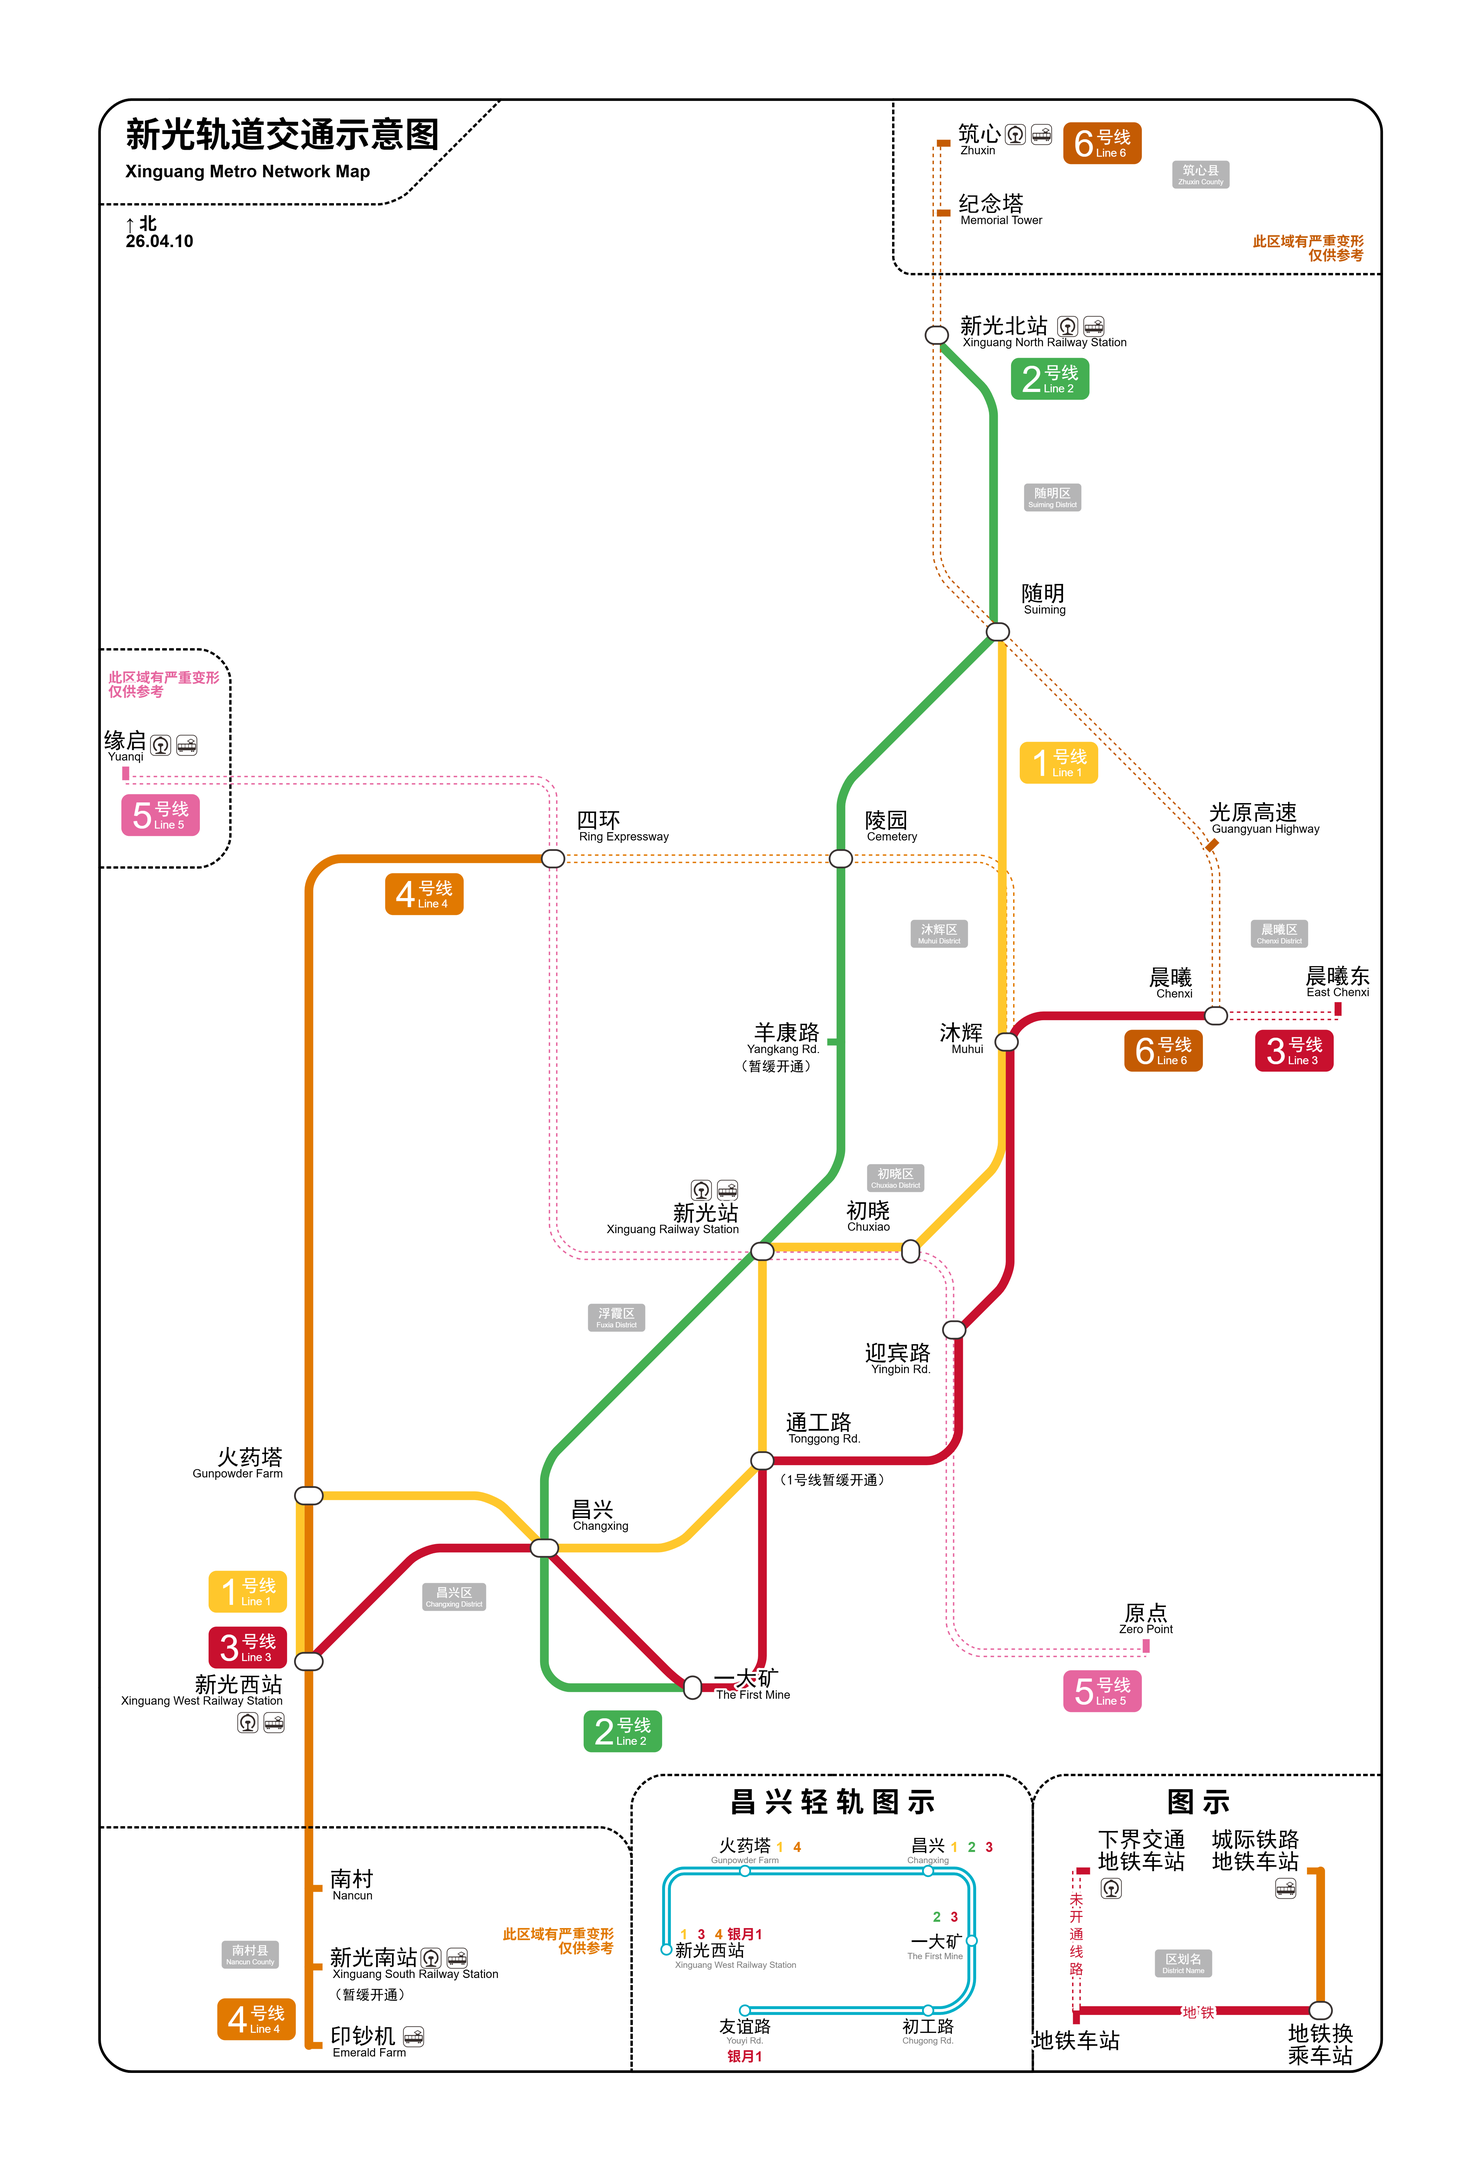
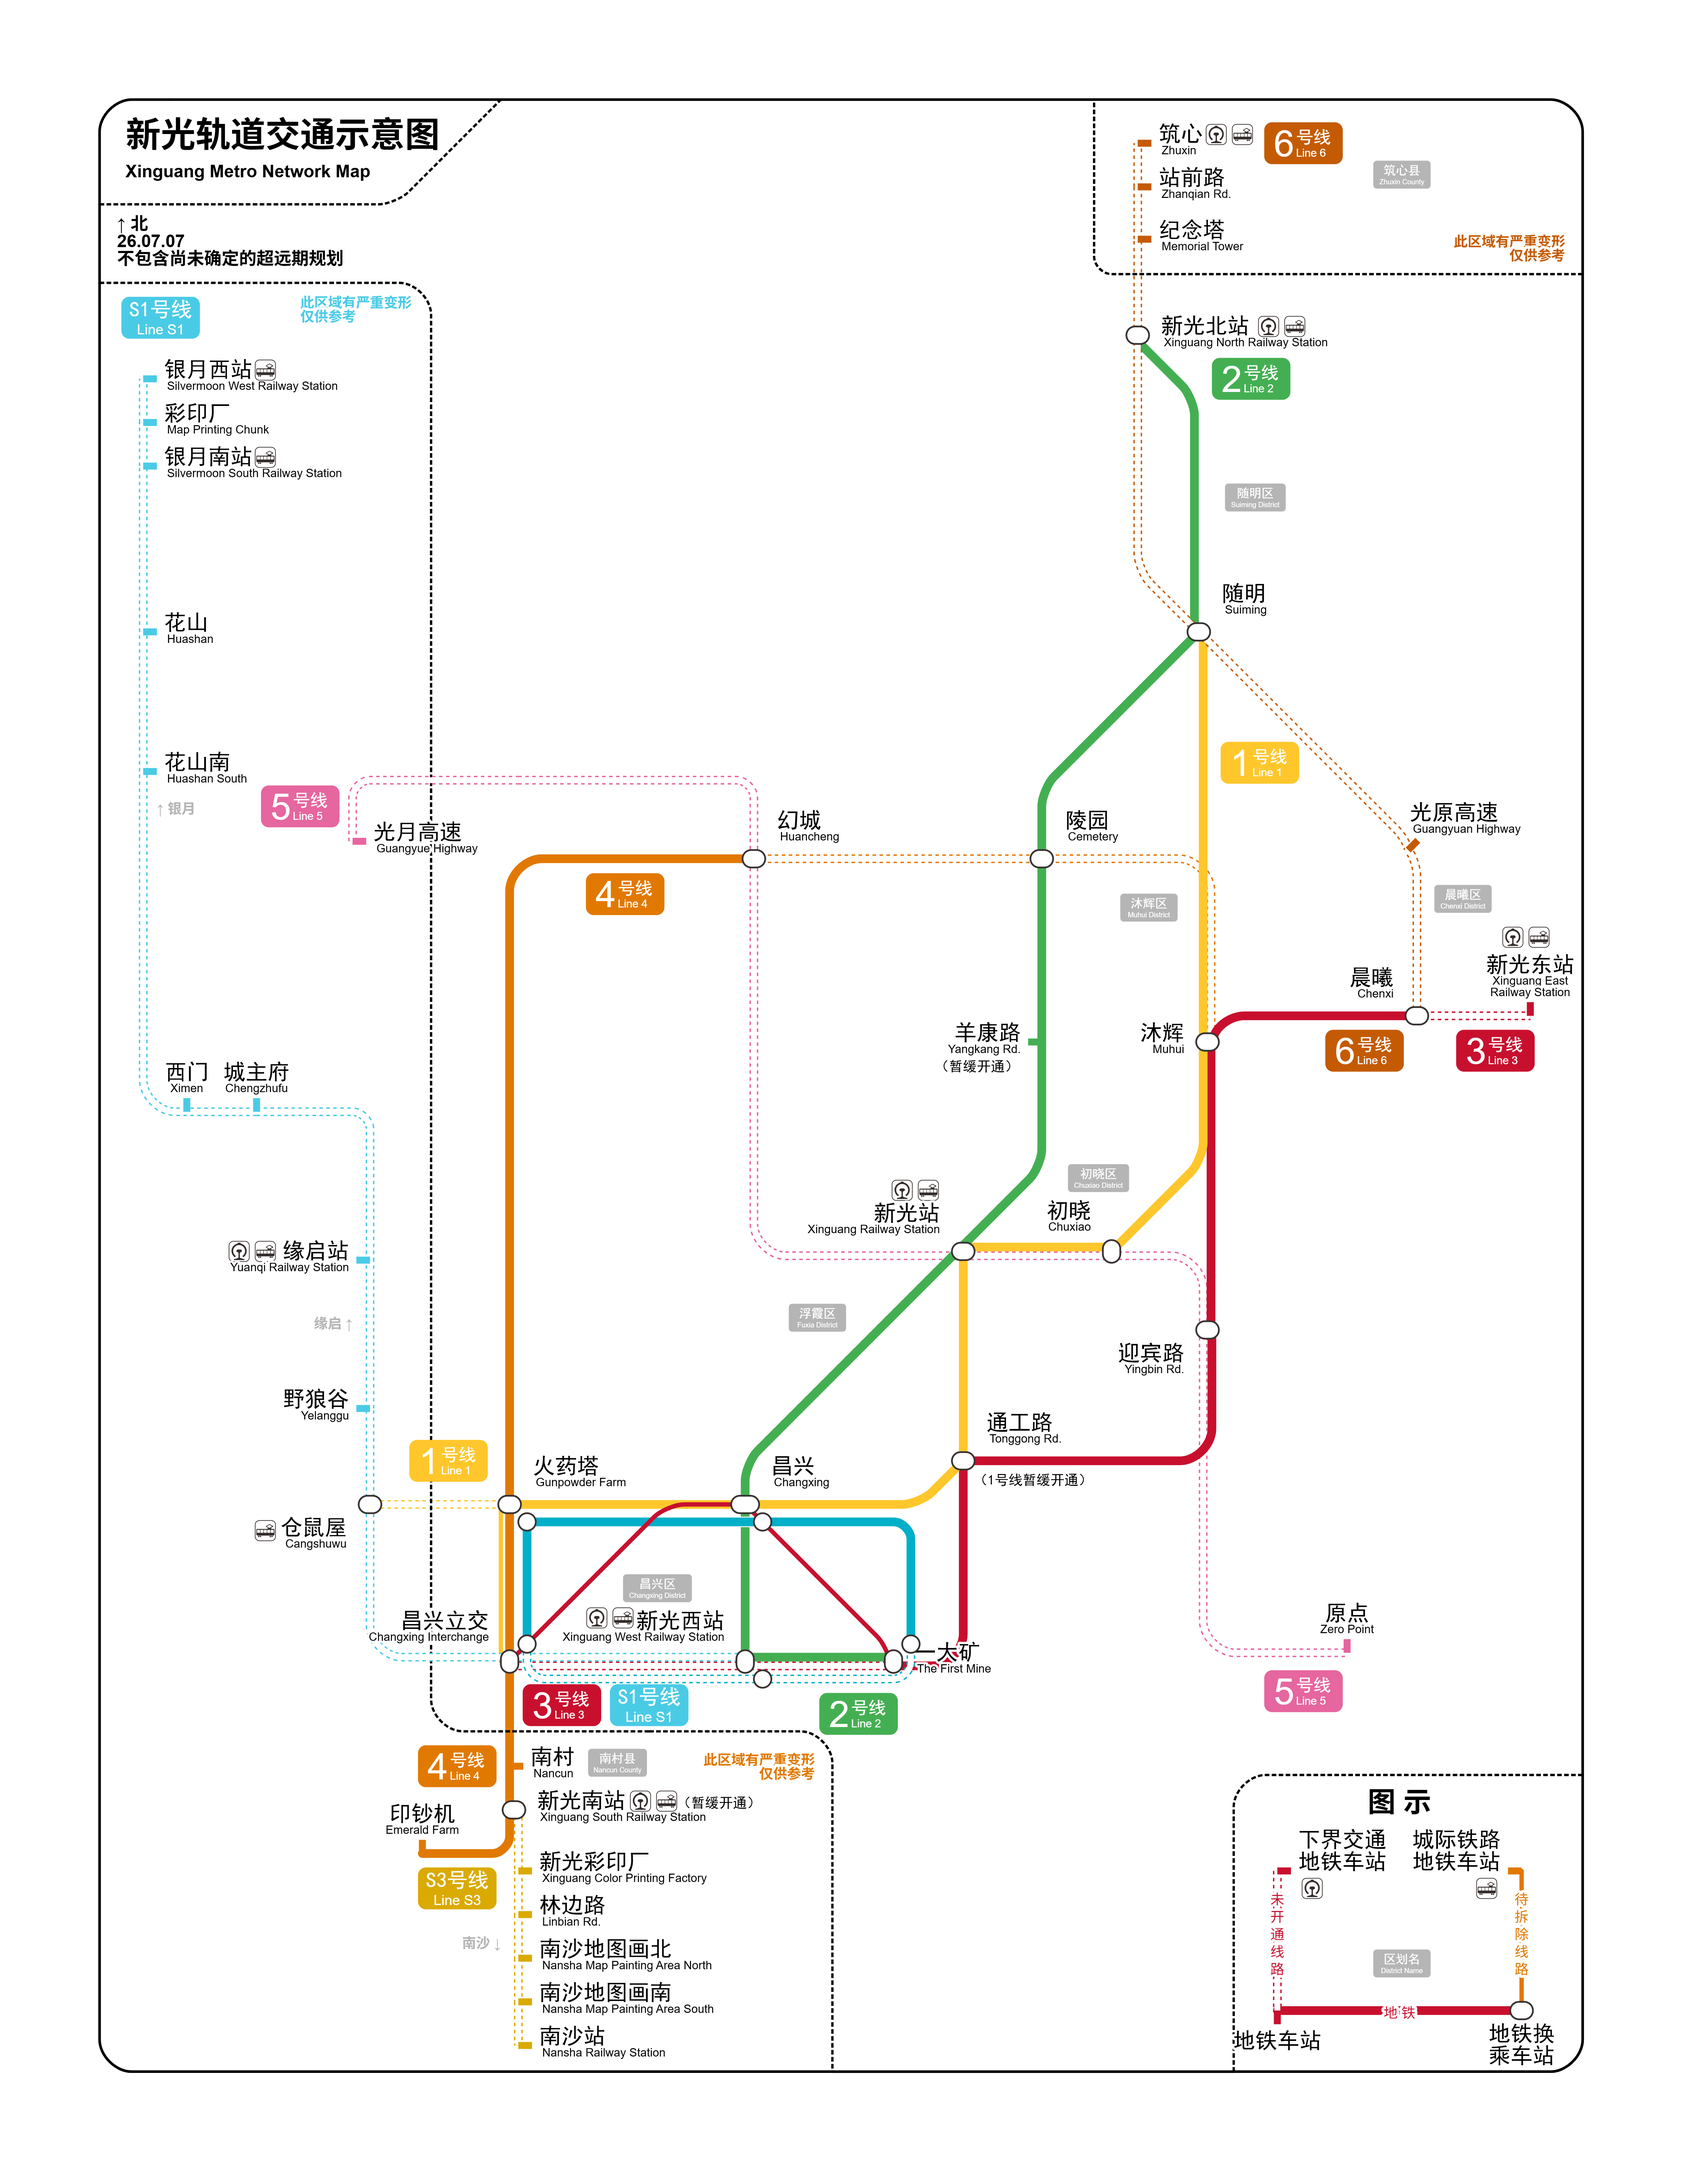
[更新] 铁路规划

diff --git a/docs/servers/s3/areas/xinguang/railway.md b/docs/servers/s3/areas/xinguang/railway.md
@@ -14,11 +14,11 @@ authors: [量筒]
 
 新光地铁整体呈现出高度的南北走向趋势，这是因为新光是一座多岛屿的城市，整体成「J」字形分布，因此新光地铁也显现出这一特点。
 
-截至 2026 年 2 月 3 日，新光地铁已经成为一条拥有 5 条线路，19 个站点，覆盖几乎新光全域的庞大地铁系统（不计月矿线和光原线）。
+截至 2026 年 7 月 7 日，新光地铁已经成为一条拥有 5 条线路，19 个站点，覆盖几乎新光全域的庞大地铁系统（不计城际铁路）。
 
 ## 新光轨道交通示意图
 
-![新光地铁规划图 26/02/03](/servers/s3/areas/xinguang/xinguang_metro.png)
+![新光地铁规划图 26/07/07](/servers/s3/areas/xinguang/xinguang_metro.png)
 
 ## 线路信息
 
@@ -26,13 +26,15 @@ authors: [量筒]
 
 | 线路 | 走向 | 主色 | 长度（米） | 规划站点数 | 已开通站点数 | 简介 |
 | --- | --- | --- | --- | --- | --- | --- |
-| 1 号线 | 新光西站 - 随明 | 黄色 | 987 | 8 | 7 | 城区骨干线路 |
-| 2 号线 | 一大矿 - 北港 | 黄绿色 | 1411 | 7 | 6 | 城区线路 |
-| 3 号线 | 新光西站 - 晨曦 | 红色 | 1023 | 8 | 7 | 城区线路 |
+| 1 号线 | 仓鼠屋 - 随明 | 黄色 | 987 | 8 | 6 | 城区骨干线路 |
+| 2 号线 | 一大矿 - 新光北站 | 黄绿色 | 1411 | 8 | 6 | 城区线路 |
+| 3 号线 | 昌兴立交 - 新光东站 | 红色 | 1023 | 8 | 5 | 城区线路 |
 | 4 号线 | 印钞厂 - 沐辉（陵园） | 橙色 | 1324 | 8 | 5 | 郊区快线 |
 | 5 号线 | 缘启 - 原点 | 粉色 | 0 | 6 | 0 | 缘启快线 |
-| 6 号线 | 晨曦 - 筑心 | 棕色 | 0 | 6 | 0 | 郊区快线 |
-| 昌兴轻轨 | 新光西站 - 友谊路 | 青色 | 566 | 6 | 6 | 村民运输线路（客货共用） |
+| 6 号线 | 晨曦 - 筑心 | 棕色 | 0 | 7 | 0 | 郊区快线 |
+| 7 号线 | 环线 | 青色 | 566 | 5 | 4 | 村民运输线路（客货共用） |
+| S1 号线 | 新光西站 - 银月西站 | 浅蓝色 | 0 | 12 | 2 | 缘启跨城快线 |
+| S3 号线 | 新光南站 - 南沙站 | 黄色 | 0 | 6 | 0 | 南沙跨城快线 |
 
 ### 站点间距
 
@@ -133,19 +135,21 @@ authors: [量筒]
 
 ## 待建设站点
 
-未来，新光轨道交通将新设 8 个站点，并将 11 个站点设为换乘站点。
+未来，新光轨道交通将新设 16 个站点，重建 4 个站点，并将 11 个站点设为换乘站点。
 
 | 站点 | 通过线路 | 类别 |
 | --- | --- | --- |
+| 新光南站 | 4 号线、S3 号线 | 新设站 |
+| 新光西站 | 2 号线、3 号线、7 号线、S1 号线 | 重建站 |
 | 通工路 | 1 号线 | 换乘站 |
+| 仓鼠屋 | 1 号线、S1 号线 | 换乘站 |
 | 羊康路 | 2 号线 | 新设站 |
-| 晨曦东 | 3 号线 | 新设站 |
-| 新光南站 | 4 号线 | 新设站 |
+| 新光东站 | 3 号线 | 新设站 |
+| 昌兴立交 | 3 号线、4 号线、S1 号线 | 重建站 |
 | 陵园 | 4 号线 | 换乘站 |
 | 沐辉 | 4 号线 | 换乘站 |
-| 缘启 | 5 号线 | 新设站 |
-| 四环 | 5 号线 | 换乘站 |
-| 陵园 | 5 号线 | 换乘站 |
+| 光月高速 | 5 号线 | 新设站 |
+| 幻城 | 5 号线 | 换乘站 |
 | 新光站 | 5 号线 | 换乘站 |
 | 初晓 | 5 号线 | 换乘站 |
 | 迎宾路 | 5 号线 | 换乘站 |
@@ -155,4 +159,14 @@ authors: [量筒]
 | 随明 | 6 号线 | 换乘站 |
 | 新光北站 | 6 号线 | 换乘站 |
 | 纪念塔 | 6 号线 | 新设站 |
+| 站前路 | 6 号线 | 新设站 |
 | 筑心 | 6 号线 | 新设站 |
+| 野狼谷 | S1 号线 | 新设站 |
+| 缘启站 | S1 号线 | 新设站 |
+| 城主府 | S1 号线 | 新设站 |
+| 西门 | S1 号线 | 新设站 |
+| 花山南 | S1 号线 | 重建站 |
+| 花山 | S1 号线 | 重建站 |
+| 银月南站 | S1 号线 | 新设站 |
+| 彩印厂 | S1 号线 | 新设站 |
+| 银月西站 | S1 号线 | 新设站 |

diff --git a/docs/servers/s3/overworld_railway.md b/docs/servers/s3/overworld_railway.md
@@ -19,13 +19,14 @@ authors: [量筒]
 
 | 线路 | 走向 | 主色 | 长度（米） | 规划站点数 | 已开通站点数 | 简介 |
 | --- | --- | --- | --- | --- | --- | --- |
-| 月矿线 | 银月 - 矿山 | 蓝色 | 4354 | 6 | 6 | |
-| 光原线 | 雪原 - 南沙 | 紫色 | 1745 | 10 | 4 | |
-| 月岩线 | 银月 - 岩沙 | 品红色 | 1415 | 5 | 4 | |
-| 月原线 | 银月 - 雪原 | 棕色 | 0 | 5 | 0 | |
+| 月矿线 | 银月南 - 矿山 | 蓝色 | 4354 | 6 | 4 | 部分区间有待改线重修 |
+| 光原线 | 雪原 - 南沙 | 品红色 | 1745 | 10 | 4 | |
+| 月岩线 | 银月西 - 岩沙 | 紫色 | 1415 | 4 | 1 | 部分区间有待改线重修 |
+| 月原线 | 银月北 - 冰刺之地 | 棕色 | 0 | 6 | 0 | |
 | 岩矿线 | 岩沙 - 矿山 | 黄绿色 | 0 | 5 | 0 | |
 | 辰辉线 | 银月 - 辰辉 | 橙色 | 0 | 3 | 0 | |
-| 筑月线 | 筑心 - 银月 | 黄色 | 0 | 2 | 0 | |
+| 筑月线 | 筑心 - 银月东 | 黄色 | 0 | 2 | 0 | |
+| 光启线 | 缘启 - 新光东 | 黄色 | 0 | 2 | 0 | |
 
 ### 站点间距
 
@@ -88,7 +89,7 @@ authors: [量筒]
 
 ## 城际铁路待建设站点
 
-未来，城际铁路将新设 13 个站点，重建 1 个站点，并将 6 个站点设为换乘站点。
+未来，城际铁路将新设 16 个站点，重建 2 个站点，并将 9 个站点设为换乘站点。
 
 | 站点 | 通过线路 | 附近城镇或区域 | 类别 |
 | --- | --- | :--- | --- |
@@ -101,7 +102,6 @@ authors: [量筒]
 | 南沙 | 光原线、岩矿线 | 南沙 | 新设换乘站 |
 | 岩沙 | 月岩线、岩矿线 | 岩沙 | 新设换乘站 |
 | 筑心 | 筑月线 | 新光筑心县 | 换乘站 |
-| 银月 | 筑月线、月原线、辰辉线 | 银月皓月区 | 换乘站 |
 | 石滩 | 月原线 | —— | 新设站 |
 | 雪原西 | 月原线 | —— | 新设站 |
 | 冰刺之地 | 月原线 | —— | 新设站 |
@@ -110,10 +110,18 @@ authors: [量筒]
 | 红树林沼泽 | 岩矿线 | —— | 新设站 |
 | 热带草原 | 岩矿线 | —— | 新设站 |
 | 矿山 | 岩矿线 | —— | 换乘站 |
+| 丰山 | 辰辉线 | 银月丰山区 | 新设站 |
+| 缘启 | 月矿线、光启线 | —— | 新设换乘站 |
+| 新光 | 光启线 | 新光初晓区 | 换乘站 |
+| 新光东 | 光启线 | —— | 换乘站 |
+| 银月东 | 筑月线 | —— | 新建站 |
+| 银月西 | 辰辉线、月岩线 | —— | 新建换乘站 |
+| 银月南 | 月矿线 | —— | 新建站 |
+| 银月北 | 月岩线 | —— | 新建站 |
 
 ## 发展历史
 
-自生存 III 档开档以来，铁路系统成为服务器中不可或缺的一部分。以下是 2026 年 2 月 5 日时，所有铁路系统的发展历史。
+自生存 III 档开档以来，铁路系统成为服务器中不可或缺的一部分。以下是 2026 年 7 月 7 日时，所有铁路系统的发展历史。
 
 - 下面的发展史中，小规模的铁路系统，例如新光发展初期时的村民运输铁路，以及银月的有轨电车，不计入总里程。
 - 如果未特意标明，X 号线均指新光 X 号线。

diff --git a/docs/servers/s3/areas/silvermoon/plans.md b/docs/servers/s3/areas/silvermoon/plans.md
@@ -27,6 +27,18 @@ authors: [比翼鸟]
 3. 建筑大小不得过大。不得超出道路范围。
 4. 只需将二厂内的设施（两台转炉、两个无限熔岩源、一座大型自动化农场（可拆可迁）全部搬走，原建筑无需拆除。
 
+### 银月火车站枢纽重建工作
+
+该计划由 @爱丽丝 发起，旨在废除既有的银月火车站，用若干外围的中小规模车站及与之接驳的地铁线路代替。
+
+- 银月南站计划设于银月机场旁或西南侧，为二台四线半地下侧式站台，上盖站房，为月矿线总站；
+- 改造现有新月站，作为银月西站，二台四线双岛式站台（高架），作为月岩线和辰辉线总站；
+- 在现地铁沙河站（沙河线路所）新建银月北站，暂定为三台四线西班牙式站台（地面），为国铁月原线及地铁1、5号线总站；
+- 在城东金港填海区北侧新建银月东站，暂定为一台二线岛式站台（高架），作为筑月线总站；
+- 月矿线海中隧道北端改道，改造为完全南北走向，月矿线-月原线贯通；
+- 拆除月岩线部分现有桥梁（银月站方向），未来与筑月线直通；
+- 彻底拆除整个银月火车站，为后续银月外环高速公路建设让路，银月1号线银月火车站-沙河部分改道。
+
 ## 远期规划
 
 远期规划是已确定将要进行，但是近期内暂时不会实施的规划。
@@ -58,6 +70,10 @@ authors: [比翼鸟]
 ### 银月地铁理线工作
 
 该计划由 @量筒 发起。为解决银月地铁站距过短、线路布局过于混乱的问题提出此规划。
+
+### 地下填充计划
+
+该计划由 @比翼鸟 发起。
 
 ### 采石场回填计划
 
